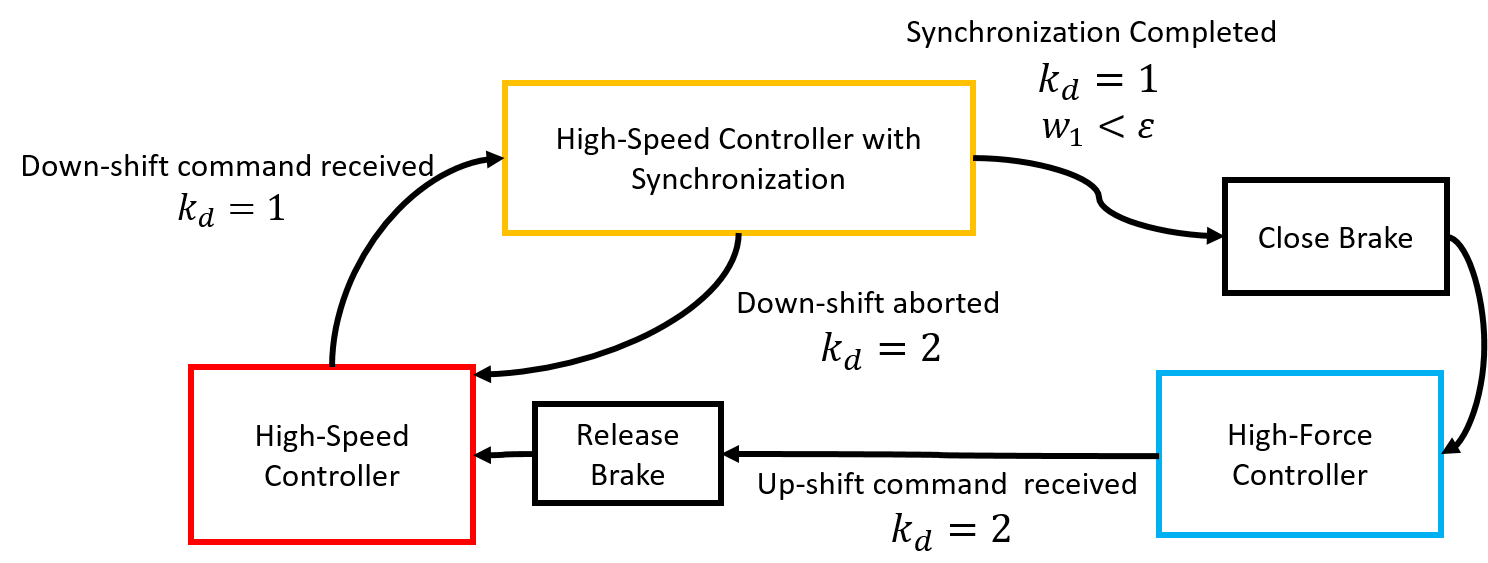
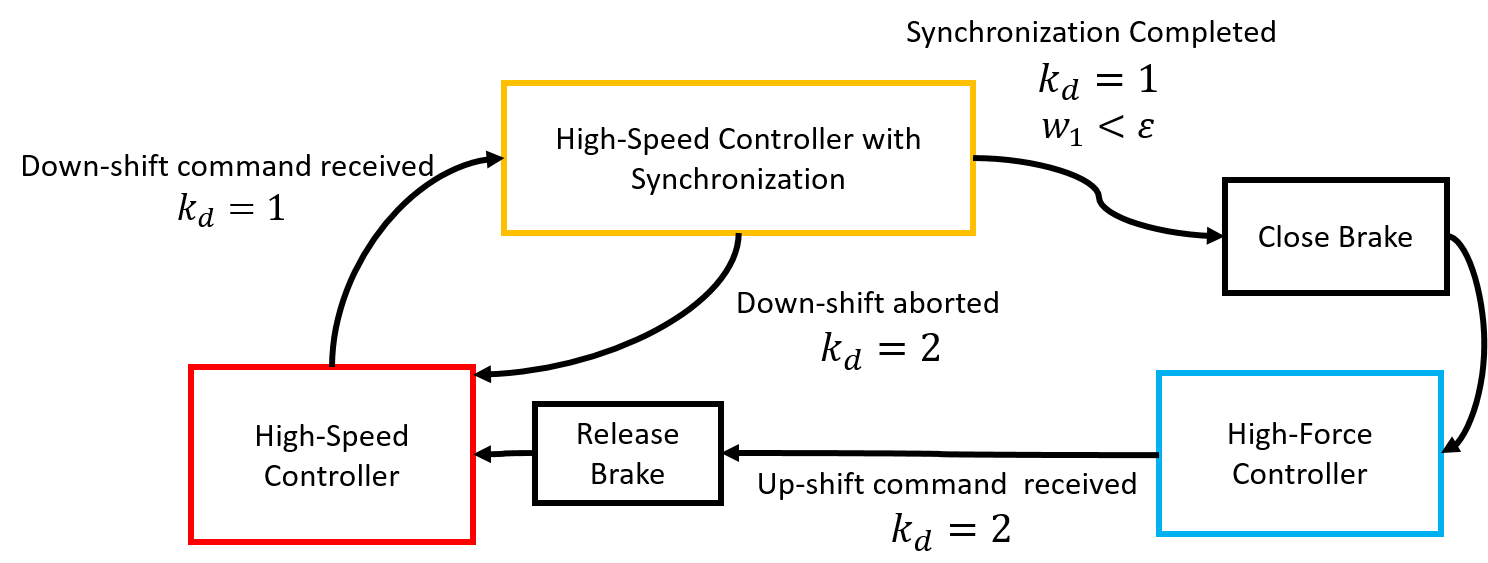
hybrid fix

diff --git a/src/actuation.tex b/src/actuation.tex
@@ -103,7 +103,7 @@ While variable gear-ratio actuators (VGA) have been studied extensively for auto
 
 \paragraph{Continuously variable transmissions (CVT)} 
 
-Continuously variable transmission have been used sporadically for car power-trains. Most common design are based on belts with variable-diameter pulley or toroidal disk. Drawbacks compared to regular transmission include higher transmission losses and complex dynamics \cite{srivastava_review_2009}. Moreover, typical CVT total ratio variation are limited to a factor 4x (for instance 0.5:1 to 2:1), which makes them unadapted for very large ratio variation [TODO find a good CVT review article]. Some designs have been proposed for infinite range variation, often called IVT. For instance the company Torotrack claim to have a CVT that can reach an effective gear-ratio of zero \cite{schoolcraft_gear_2011}. However, since those designs rely on friction, maximum transmitted torque is limited and the transmission systems are complex and very large, which inhibit the potential use in robotic applications.
+Continuously variable transmission have been used sporadically for car power-trains. Most common design are based on belts with variable-diameter pulley or toroidal disk. Drawbacks compared to regular transmission include higher transmission losses and complex dynamics \cite{srivastava_review_2009}. Moreover, typical CVT have limited total ratio variation range (for instance 0.5:1 to 2:1), which makes them unadapted for very large ratio variation. Some designs have been proposed for infinite range variation, often called IVT. For instance the company Torotrack claim to have a CVT that can reach an effective gear-ratio of zero \cite{schoolcraft_gear_2011}. However, since those designs rely on friction, maximum transmitted torque is limited and the transmission systems are complex and very large, which inhibit the potential use in robotic applications. % [TODO find a good CVT review article]
 
 In the actuator field, lever mechanisms with variable attachment points that leads to a very wide range of effective transmission ratio \cite{tahara_high-backdrivable_2011}, even infinite range when using a singular configurations \cite{jafari_new_2014}, have been proposed. However, this type of CVT implementation limits drastically the motion range, thus cannot be used for general purpose actuator transmission. In the literature, those mechanisms are used in VSA between the spring and the output, where their limited motion range is not an issue. 
 
@@ -113,7 +113,7 @@ Many clever mechanisms have proposed to be used as CVT. However, all design have
 %\paragraph{Novel Contribution} 
 The presented DSDM actuator in this chapter, address the issue of improving available power and efficiency over a wide range of operating speeds, which has rarely been addressed in the robotics literature. Also, the actuator enable order-of-magnitude variation of the output impedance, which is also a highly desirable feature.  \textbf{The main novel contribution is the methodology for gear shifting between two very different gear-ratios seamlessly even in highly dynamic situations, which is a key enabling feature for robotic applications.} A mechanical architecture where two motors are coupled using a 3-ports gearbox and a brake is used in conjunction with novel control scheme to provide full control of the output during gear shifting. The mechanical architecture is not new by itself as similar architectures (using planetary and brakes) are used in hybrid car powertrains, automatic transmissions and special actuators. However, here this architecture is used in conjunction with a novel controller to provide full control of the output during gear shifting. A preliminary version of this work have been published in \cite{girard_two-speed_2015}, but this chapter include a more throughout analysis and new algorithms for fast gear-shift even during impacts. 
 
-To the knowledge of the author, no other technology can meet all those requirements:
+To the knowledge of the author, no other technology meets all those requirements:
 \begin{itemize}
 	\item Fast shifting between order-of-magnitude different gear-ratios
 	\item High-fidelity control of the output during transitions
@@ -570,8 +570,9 @@ The variable of interest is the output $w_o$, and its dynamic can be expressed, 
 \right] \tau_{ext}(s)
 \label{eq:dsdm_output}
 \end{align}
-
+%
 When the brake on M1 of the DSDM is locked, the output equation is reduced, by letting $Z_1(s) \rightarrow \infty$, to:
+%
 \begin{align}
 \left[
  Z_o(s)  + R_2^2 Z_2(s)
@@ -582,7 +583,7 @@ R_2
 \tau_{ext}(s)
 \label{eq:dsdm_output_HF}
 \end{align}
-
+%
 When the brake is open, if the gear-ratio $R_2$ of M2 is large, the equation can be simplified. 
 %
 %, the behavior can be approximated. First eq. \eqref{eq:dsdm_output} is rearranged:
@@ -603,6 +604,7 @@ When the brake is open, if the gear-ratio $R_2$ of M2 is large, the equation can
 %\end{align}
 %
 Assuming the reflected impedance of M1 is much smaller than that of M2, and neglecting motor side damping, the equation reduce to:
+%
 \begin{align}
 \left[
 Z_o(s)  + R_1^2 Z_1(s)
@@ -618,26 +620,26 @@ R_1 \frac{R_1 I_1}{R_2 I_2}
 \quad \text{and} \quad \frac{Z_1(s)}{Z_2(s)} = \frac{I_1}{I_2}
 \label{eq:dsdm_output_HS}
 \end{align}
-
+%
 During high-speed mode the behavior of the output is also dominated by a first-order linear behavior, but interestingly both input torques contributed to the motion through inertial coupling. Note that this differ from a serial architecture, in both case speed adds-up and effort is shared (0-type junction), but inertial properties are different.
-
+%
 \begin{align}
 \text{High-speed mode: } \quad \left[ I_o + R_1^2 I_1 \right] \dot{w}_o +  \left[ b_o \right] \dot{w}_o  &= \left[ R_1 \right] \tau_1 + \left[ R_1 \frac{R_1 I_1}{R_2 I_2} \right] \tau_2 
 \label{eq:dsdm_output_HSw0} \\
 \text{High-force mode: } \quad \left[ I_o + R_2^2 I_2 \right] \dot{w}_o +  \left[ b_o \right] \dot{w}_o  &= \left[ R_2 \right] \tau_2 
 \label{eq:dsdm_output_HFw0}
 \end{align}
-
-Note that, if when DSDM connected to a robotic system, the left-hand side of equations \eqref{eq:dsdm_output_HSw0} and \eqref{eq:dsdm_output_HFw0} would have terms reflecting other forces: including coupled inertial effects, gravitation forces and others. However, the right-hand side of the equation would stay the same: the motor torques transmission gains would not be affected. Also, although neglected in \eqref{eq:dsdm_output_HSw0} and \eqref{eq:dsdm_output_HFw0}, motor damping could be reintroduce easily by substituting motor torque $\tau_i$ with the effective torque $\tau_i - b_i w_i$ since those forces are collocated. 
+%
+Note that, if when DSDM connected to a robotic system, the left-hand side of equations \eqref{eq:dsdm_output_HSw0} and \eqref{eq:dsdm_output_HFw0} would have terms reflecting other load-side forces: including coupled inertial effects, gravitation forces and others. However, the right-hand side of the equation would stay the same: the motor torques transmission gains would not be affected. Also, although neglected in \eqref{eq:dsdm_output_HSw0} and \eqref{eq:dsdm_output_HFw0}, motor damping could be reintroduce easily by substituting motor torque $\tau_i$ with the effective torque $\tau_i - b_i w_i$ since those forces are collocated. 
 
 \newpage
 \subsection{Hybrid Behavior}
 
-Fig. \ref{fig:operatingmodes} illustrates the two different discrete modes of the system and possible transitions. Table \ref{tab:hybrid} gives a  
+Fig. \ref{fig:operatingmodes} illustrates the two different discrete modes of the system and possible transitions. Table \ref{tab:hybrid} gives references to the equations modeling each the discrete behaviors and transitions.
 %
 \begin{figure}[H]
 	\centering
-		\includegraphics[width=0.95\textwidth]{operating_modes.png}
+		\includegraphics[width=0.99\textwidth]{operating_modes.png}
 	\caption{Discrete operating modes of the actuators}
 	\label{fig:operatingmodes}
 \end{figure}
@@ -645,14 +647,14 @@ Fig. \ref{fig:operatingmodes} illustrates the two different discrete modes of th
 \begin{table}[H]
 	\centering
 	\caption{Hybrid model: Continous equations and discrete jump maps}	% Table caption must be placed on top of the table %
-		\begin{tabular}{ c c c c }
+		\begin{tabular}{ c l l l }
 				\hline \hline
 				Situation           & Discrete Mode     & Mapping   & Equation of motions \\
 				\hline \hline
 				\multicolumn{4}{c}{ Continuous differential equations }\\
         \hline
-			   High-Force Mode    & $k=1$             & $\dot{\vec{w}} = f_1(\vec{w})$  & given by eq. \eqref{eq:dsdm_output_HF} \\
-				 High-Speed Mode    & $k=2$             & $\dot{\vec{w}} = f_2(\vec{w})$  & given by eq. \eqref{eq:ss_full}             \\
+			   High-Force Mode    & $k=1$             & $\dot{\vec{w}} = f_1(\vec{w},\tau)$  & given by eq. \eqref{eq:dsdm_output_HF} \\
+				 High-Speed Mode    & $k=2$             & $\dot{\vec{w}} = f_2(\vec{w},\tau)$  & given by eq. \eqref{eq:ss_full}             \\
 				\hline
 				\multicolumn{4}{c}{ Discrete gear-shift jump maps }\\
 				\hline
@@ -661,8 +663,8 @@ Fig. \ref{fig:operatingmodes} illustrates the two different discrete modes of th
 				\hline
 				\multicolumn{4}{c}{ Output impact jump maps }\\
 				\hline
-				 Impact during HF   & $k:1\rightarrow1$  & $\vec{w}^+= h_1(\vec{w}^-)$  &  \\
-				 Impact during HS   & $k:2\rightarrow2$  & $\vec{w}^+= h_2(\vec{w}^-)$  &  \\
+				 Impact during HF   & $k:1\rightarrow1$  & $\vec{w}^+= h_1(\vec{w}^-,p_{ext})$  & given by eq. \eqref{eq:h1} \\
+				 Impact during HS   & $k:2\rightarrow2$  & $\vec{w}^+= h_2(\vec{w}^-,p_{ext})$  & given by eq. \eqref{eq:h2} \\
 		    \hline \hline
         \end{tabular}		
 	\label{tab:hybrid}
@@ -687,7 +689,7 @@ From eq. \eqref{eq:dsdm_output_HF}, the continous differential equation mapping 
 \end{array}
 \right] &= f_1( \vec{w} , \vec{\tau} ) = 
 \left[ \begin{array}{c}
-\frac{1}{I_0 + R^2_2 I_2}\left( -(b_o + R_2^2 b_2) w_o + R_2 \tau_2 + \tau_o \right)\\
+\frac{1}{I_0 + R^2_2 I_2}\left( -(b_o + R_2^2 b_2) w_o + R_2 \tau_2 + \tau_{ext} \right)\\
 0
 \end{array} \right]
 \label{eq:f1}
@@ -718,7 +720,7 @@ From eq. \eqref{eq:ss_full}, the continous differential equation mapping during 
 
 \subsubsection{Up-Shift $k:1\rightarrow2$}
 
-During high-force mode, the single DoF is described by the variable $w_o$. Opening the brake release a constraint in the system and do not lead to any impulsive behavior. M1 rotor is simply suddenly free to move starting from rest. The mapping is thus given by:
+During high-force mode, the only DoF is described by the variable $w_o$. Opening the brake release a constraint in the system and it does not lead to any impulsive behavior. M1 rotor is simply suddenly free to move starting from rest. The mapping is thus given by:
 \begin{align} 
 \left[
 \begin{array}{c}
@@ -784,9 +786,16 @@ w_o^- + TODO(w_1^-) \\ 0
 \subsection{Impacts}
 \label{sec:model_impact}
 
+During a contact, impulsive forces can create a sudden change of velocity. Hence, if a DSDM actuator is used on a robotic system making contact with objects, its internal velocities can suddenly change. Since there is no impulsive forces on the motor side, the effect of contacts, from the actuator point-of-view, can be reduce to an impulsive torque applied to the output of the actuator. The output impulse $p_{ext}$ (integral of the impulsive force during the impact) is thus sufficient to characterized the velocity jumps:
+%
+\begin{align}
+p_{ext} = \int_{t^-}^{t^+} \tau_{ext} dt
+\label{eq:outputimpulsedefine}
+\end{align}
+
 \subsubsection{High-speed mode impact}
 
-During a contact, impulsive forces can create a sudden change of velocity. Hence, if a DSDM actuator is used on a robotic system making contact with objects, its internal velocities can suddenly change. Since there is no impulsive force on the motor side, the effect of the contacts, from the actuator point-of-view, can be reduce to a impulse torque $\tau_c$ applied to the output of the actuator. Using eq. \eqref{eq:manipulator_impact}, it leads to to impulsive map:
+During high-speed mode, applying eq. \eqref{eq:manipulator_impact}, it leads to to impulsive map:
 %
 \begin{align}
 \left[
@@ -794,7 +803,7 @@ During a contact, impulsive forces can create a sudden change of velocity. Hence
 w_0^+ \\
 w_1^+ \\
 \end{array}
-\right] = h_2( \vec{w}^- , \int \tau_c dt ) = 
+\right] = h_2( \vec{w}^- , p_{ext} ) = 
 \left[
 \begin{array}{c}
 w_0^- \\
@@ -806,10 +815,11 @@ H^{-1} \left[
 1 \\
 0 \\
 \end{array}
-\right] \int{\tau_c dt}
+\right] p_{ext}
+\label{eq:h2}
 \end{align}
 %
-If the reflected inertia of M2 is much greater than that of M1 ($R_2^2 I_2 >> R_1^2 I_1 $), than the impulsive reaction is expressed by:
+If the reflected inertia of M2 is much greater than that of M1 ($R_2^2 I_2 >> R_1^2 I_1 $), than the impulsive reaction can be simplified to 
 %
 \begin{align}
 \left[
@@ -824,7 +834,7 @@ w_0^- \\
 w_1^- \\
 \end{array}
 \right] +
-\frac{ \int{\tau_c dt} }{ I_o + I_1 R_1^2} 
+\frac{ p_{ext} }{ I_o + I_1 R_1^2} 
 \left[
 \begin{array}{c}
 1 \\
@@ -836,7 +846,7 @@ R_1 \\
 Hence, M2 velocity will be unchanged and the velocity discontinuity of the output is transmitted directly to M1 during an impact:
 %
 \begin{align}
-\Delta w_o  &= w_o^+ - w_o^- = \frac{ \int{\tau_c dt} }{ I_o + I_1 R_1^2}  \\
+\Delta w_o  &= w_o^+ - w_o^- = \frac{ p_{ext} }{ I_o + I_1 R_1^2}  \\
 \Delta w_1  &= w_1^+ - w_1^- = R_1 \Delta w_o \\
 \Delta w_2  &= w_2^+ - w_2^- =  0
 \label{eq:dsdm_impact_gen_delta_w1}
@@ -853,13 +863,14 @@ During high-force mode, assuming the brake is strong enough not to slip during t
 w_0^+ \\
 w_1^+ \\
 \end{array}
-\right] = h_1( \vec{w}^- , \int \tau_c dt ) = 
+\right] = h_1( \vec{w}^- , p_{ext} ) = 
 \left[
 \begin{array}{c}
-w_0^- + \frac{\int{\tau_c dt}}{I_o + R_2^2  I_2 } \\
+w_0^- + \frac{ p_{ext} }{I_o + R_2^2  I_2 } \\
 0 \\
 \end{array}
-\right]  
+\right] 
+\label{eq:h1}
 \end{align}
 
 %\begin{figure}[H]
@@ -1031,10 +1042,10 @@ and they can be reduced the same input-output structure :
 The same structure can also be found for the impulsive behavior in case of impacts:
 %
 \begin{align}
-w_0^+  =  w_0^- + \frac{\int{\tau_c dt}}{I_o + R_k^2  I_k } \quad k \in {1,2}
+w_0^+  =  w_0^- + \frac{p_{ext}}{I_o + R_k^2  I_k } \quad k \in {1,2}
 \end{align}
 %
-Hence, if both motor are identical ($I_1=I_2$), then the only parameter changing in those equations is the reduction ratio $R_k$. Thus, from a high-level point of view, with the commanded torque routed as described by eq. \eqref{eq:torquerooting}, the behavior of a DSDM behaves like a single motor actuator with two set of gear-ratio. 
+Hence, if both motor are identical ($I_1=I_2$), then the only parameter changing in those equations is the reduction ratio $R_k$. Thus, from a high-level point of view, with the commanded torque routed as described by eq. \eqref{eq:torquerooting}, the behavior of a DSDM is equivalent to a single motor actuator with two gear-ratios. 
 
 
 %%%%%%%%%%%%%%%%%%%%%%%%%%%%%%%%%%%%%%%%%%%%%%%%%%%%%%%%%%%%%%%%%%%%%%%%%%%%%%%%%%%%%%%%%%%%%%%%%
@@ -1188,7 +1199,7 @@ This section described a control scheme where the velocity of the internal DoF i
 Rearranging the results of section \ref{sec:model_impact} to express the two variables of interest (approaching speed $w_0^-$ and M1 velocity after the impact $w_1^+$), as a function of controllable inputs (from a kinematic point of view), lead to:
 %
 \begin{align}
-\left[ \begin{array}{c} w_0^- \\ w_1^+ \end{array} \right] &= \Bigg[ \begin{array}{c c} \frac{1}{R_1} & \frac{1}{R_2}\\ 1 & 0 \end{array} \Bigg] \left[ \begin{array}{c} w_1^- \\ w_2^- \end{array} \right] + \left[ \begin{array}{c} 0 \\ R_1 \frac{\int{\tau_c dt}}{I_o + I_1 R_1^2} \end{array} \right]
+\left[ \begin{array}{c} w_0^- \\ w_1^+ \end{array} \right] &= \Bigg[ \begin{array}{c c} \frac{1}{R_1} & \frac{1}{R_2}\\ 1 & 0 \end{array} \Bigg] \left[ \begin{array}{c} w_1^- \\ w_2^- \end{array} \right] + \left[ \begin{array}{c} 0 \\ R_1 \frac{  p_{ext}  }{I_o + I_1 R_1^2} \end{array} \right]
 \label{eq:dsdm_impact_approx_sol}
 \end{align}
 %
@@ -1197,7 +1208,7 @@ Hence it is possible to set both motor velocities so that the approaching speed 
 \begin{align}
 \left[ \begin{array}{c} w_1^- \\ w_2^- \end{array} \right] &= \Bigg[ \begin{array}{c} R_1 \\ 0  \end{array} \Bigg] u_0  + 
 \underbrace{ \left[ \begin{array}{c} 1 \\ -\frac{R_2}{R_1} \end{array} \right]}_{\text{Nullspace projection}}
- \left( u_1 - R_1 \frac{\int{\tau_c dt}}{I_o + I_1 R_1^2} \right) 
+ \left( u_1 - R_1 \frac{ p_{ext} }{I_o + I_1 R_1^2} \right) 
 \end{align}
 %
 leading to
@@ -1213,7 +1224,7 @@ Therefore, if an impact is expected and the upcoming impulsive impact reaction $
 Alternatively, as for the braking law used for synchronization during the down-shift process, this problem can be approached from a dynamic point of view. A desired velocity for M1 is defined has a function of the expected impulsive contact reaction:
 %
 \begin{align}
-w_{1,d}  = - R_1 \frac{\int{\tau_c dt}}{I_o + I_1 R_1^2}
+w_{1,d}  = - R_1 \frac{ p_{ext} }{I_o + I_1 R_1^2}
 \label{eq:dsdm_impact_gen_delta_w1}
 \end{align}
 %
@@ -1250,7 +1261,7 @@ and a $w_1$ closed-loop dynamic converging exponentially to $w_{1,d}$ if the syn
 If the velocity controller is able to track the velocity set-point and the collision is perfectly predicted, then immediately after the impact, M1 velocity will be zero:
 %
 \begin{align}
-w_1^+ =  w_1^- + \Delta w_1 = w_{1,d}  + R_1 \frac{\int{\tau_c dt}}{I_o + I_1 R_1^2} \approx 0
+w_1^+ =  w_1^- + \Delta w_1 = w_{1,d}  + R_1 \frac{ p_{ext} }{I_o + I_1 R_1^2} \approx 0
 \label{eq:dsdm_impact_vel}
 \end{align}
 %

diff --git a/src/intro.tex b/src/intro.tex
@@ -1,10 +1,16 @@
 \chapter{Introduction}
 \label{sec:Introduction}
 
+%{
+%\begin{flushright}
+%\textit{"There is one quality more important than know-how [...] This is \\ know-what by which we determine not only how to accomplish our \\  purposes, but what our purposes are to be."} 
+%\emph{-- Norbert Wiener}
+%\end{flushright}
+%}
 {
 \begin{flushright}
-\textit{"There is one quality more important than know-how [...] This is \\ know-what by which we determine not only how to accomplish our \\  purposes, but what our purposes are to be."} 
-\emph{-- Norbert Wiener}
+\textit{"To have a great idea, have a lot of them."} \\
+\emph{-- Thomas A. Edison}
 \end{flushright}
 }
 \vspace{10pt}
@@ -17,7 +23,7 @@
 This thesis proposes an actuation technology and control schemes addressing the fundamental problem of efficient power-transmission in diverse situation. In many robotic systems, actuators are often required to operate in distinctively different torque-speed load conditions. Machine tools, for instance, are usually either moving at high-speed unloaded during reaching phases, or moving slowly applying large forces during manufacturing operations (see Fig. \ref{fig:machinetool}). Also a legged robot, for example, has to move its leg forward quickly through the air and, once touching the ground, it has to bear a large load (see Fig. \ref{fig:leggedrobot}), or a gripper needs to reach the part quickly and then has to apply large holding forces (see Fig. \ref{fig:gripper}).
 %
 \begin{figure}[H]
-				\vspace{-10pt}
+				%\vspace{-10pt}
         \centering
 				\subfloat[Machine tool]{
 				\includegraphics[width=0.30\textwidth]{machinetool.png}
@@ -81,7 +87,7 @@ The gear-ratio has a radical effect on the output impedance of a robot; the moto
 Changing the gear-ratio has a radical effect on the natural dynamics of a system. By changing dynamically the gear-ratio, it is possible to select the natural dynamic behavior that is most advantageous for a task. For instance, selecting a small reduction ratio to exploit gravitational forces pulling the robot in a desired direction, or on the other hand, selecting a large reduction ratio to hold a heavy weight with small actuator torques.
 
 \paragraph{Directionality of properties}
-For a multiple DoF mechanism, the speed/force properties are directional. Typically the Jacobian of a mechanism is only a function of the configuration $J=J(\vec{q})$, but a mechanism using $m$ variable gear-ratio actuators with $n$ possible gear-ratio, the Jacobian (from actuator coordinates to task-space coordinates) would also be function of the gear-ratios selected, i.e. dependent on control inputs $\vec{u}$ : $J=J(\vec{q},\vec{u})$. Hence, for a given configuration there is $n^m$ manipulability ellipsoid option. Fig. \ref{fig:gearselectionlegged} illustrates situations where gear-ratios would be picked to meet the task requirement.
+For a multiple DoF mechanism, the speed/force properties are directional. Typically the Jacobian of a mechanism is only a function of the configuration $J=J(\vec{q})$, but a mechanism using $m$ variable gear-ratio actuators with $n$ possible gear-ratio, the Jacobian (from actuator coordinates to task-space coordinates) would also be function of the selected gear-ratios $R$, i.e. dependent on control inputs : $J=J(\vec{q},R)$. Hence, for a given configuration there is $n^m$ manipulability ellipsoid option. Fig. \ref{fig:gearselectionlegged} illustrates situations where gear-ratios would be picked to meet the task requirement.
 
 
 \begin{figure}[H]
@@ -94,7 +100,7 @@ For a multiple DoF mechanism, the speed/force properties are directional. Typica
 
 \subsection{Differences from vehicle power-train transmissions}
 
-Here differences from issues faced in the context of car power-train variable transmissions are emphasized.
+Here differences from issues faced in the context of car power-train transmissions are emphasized.
 
 \paragraph{Range of required gear-ratio}
 %
@@ -102,12 +108,12 @@ For car transmissions, a typical gear-ratio range start with a ~3:1 reduction fo
 
 %\subsubsection{Characteristic of transducer and driven load}
 
-\emph{Electromagnetic transducer vs. internal combustion engine characteristics -}
+\paragraph{Electromagnetic transducer vs. internal combustion engine characteristics -}
 %
 Internal combustion engine have an efficient power-output on a narrow range of speed, hence transmission require many gear-ratio options (modern cars use up to eleven \cite{goleski_multi-speed_2015}) to keep the engine at its optimal velocity for any vehicle speed. Moreover, internal combustion engines cannot produce torque at low speed and car transmission must be equipped with a disengaging clutch.  Electric motor are much more flexible and their is less constraints for the design of adapted variable transmission. 
 
 %\newline
-\emph{Car dynamics vs. robot dynamics -}
+\paragraph{Car dynamics vs. robot dynamics}
 %
 For car power-trains the driven load is always a large inertia and is thus naturally attenuating any discontinuity in torque during a gear-shift. However, this is not the case in a general robotic context. 
 
@@ -115,16 +121,17 @@ For car power-trains the driven load is always a large inertia and is thus natur
 %
 Last and most fundamental difference, this thesis explore the control of VGA in multi-DoF systems like robotic arms, while for vehicle power-train the system is always single-axis.
 
-\paragraph{Solutions}
+\paragraph{Solutions Concepts}
 %
-All in all, for car power-train the solution is generally something similar to the selection of possible gear-ratios $R$ shown at eq. \eqref{eq:rangestypical}, i.e. single axis, limited total range variation of about and small jump between successive gear-ratio. With proposed solution for robotic system, the gear-ratio options would be characterized by multiple-DoF, only two gear-options per axis and order-of-magnitude difference between gear-ratio. A typical selection of gear-ratio for a 2 DoF robot is illustrated at \eqref{eq:rangestypical}. %Note that section \ref{sec:model} will discuss why gear-ratios for a multi-DoF system are represented with a matrix.
+All in all, as exemplified at eq. \eqref{eq:ratiorangestypicalrobot}, this thesis explore variable transmissions in multi-axis systems where gear-ratios exhibit drastic variations. This differ from typical car transmission with small jumps between successive gear-ratio for a single-axis system, see eq. \eqref{eq:ratiorangestypicalcar}.
 %
 \begin{align}
-  \text{Car:}& \quad R \in \{ 3 , 2 , 1.4 , 1 , 0.8 \} 
+  \text{Car Transmission:}& \quad R \in \{ \, 3 \, , \,  2 \, , \, 1.4 \, , \, 1 \, , \, 0.8 \, \} 
+	\label{eq:ratiorangestypicalcar}
 	%%
 	\\
 	%%
-	\text{Robot:}& \quad R \in 
+	\text{Proposed Robots:}& \quad R \in 
 	\scriptsize
 	\left \{
 	\left[
@@ -151,10 +158,11 @@ All in all, for car power-train the solution is generally something similar to t
 	\end{array} 
 	\right]
 	\right \}
- \label{eq:rangestypical}
+ \label{eq:ratiorangestypicalrobot}
 \end{align}
 
 
+\newpage
 
 \section{Main challenges}
 \label{sec:MainChallenges}

diff --git a/src/proofs.tex b/src/proofs.tex
@@ -1,4 +1,4 @@
-\chapter{Proofs}
+\chapter{Mathematical Derivations}
 \label{sec:proofs}
 
 
